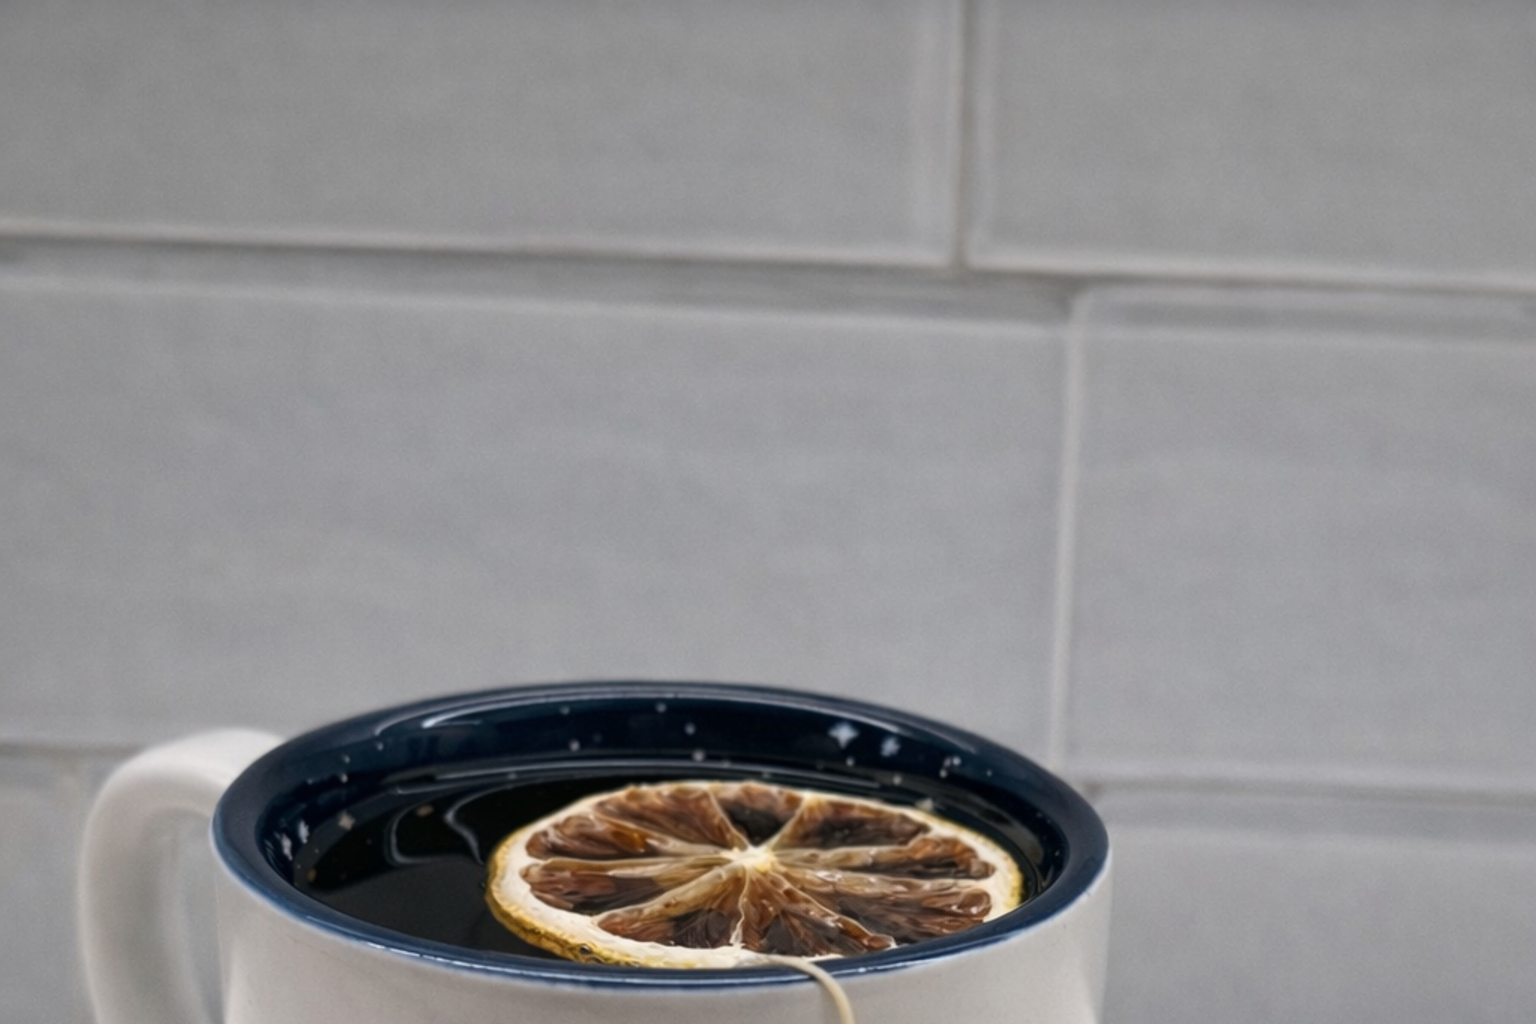
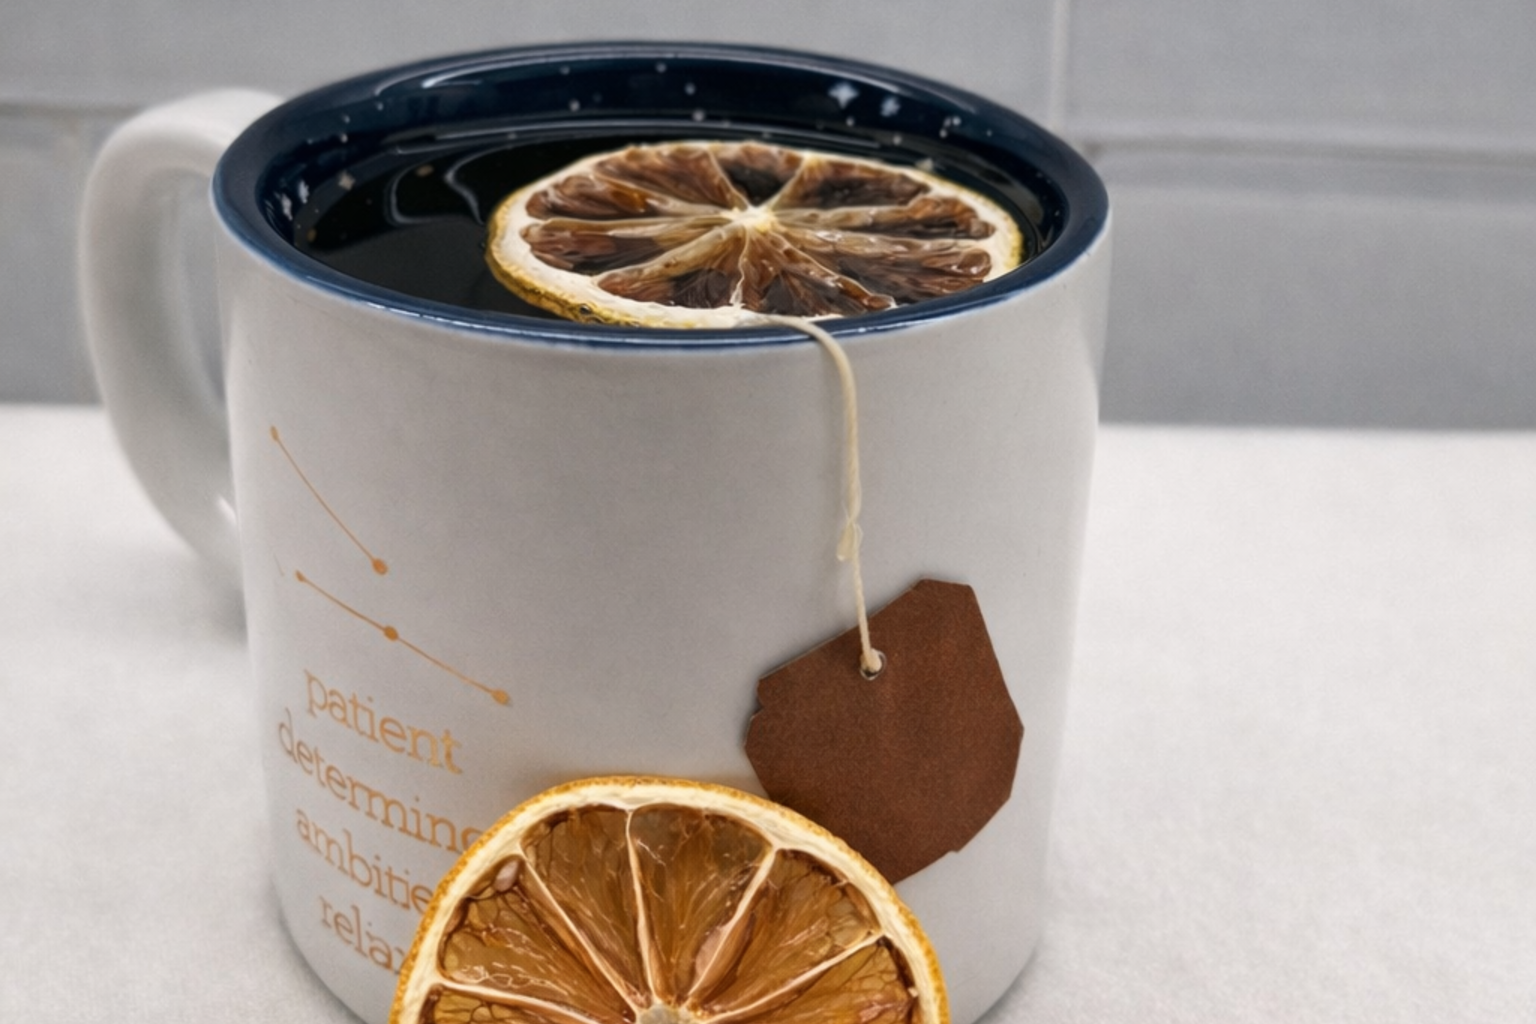
Change tea image to object-contain to show full mug without cropping

diff --git a/src/components/Lifestyle.jsx b/src/components/Lifestyle.jsx
@@ -206,7 +206,9 @@ export default function Lifestyle() {
                 <img
                   src={item.image}
                   alt={getTranslation(language, `lifestyle.slides.${item.key}.caption`)}
-                  className="w-full h-full object-cover object-center"
+                  className={`w-full h-full ${
+                    item.key === 'tea' ? 'object-contain' : 'object-cover'
+                  } object-center`}
                   width="1200"
                   height="675"
                   decoding="async"
